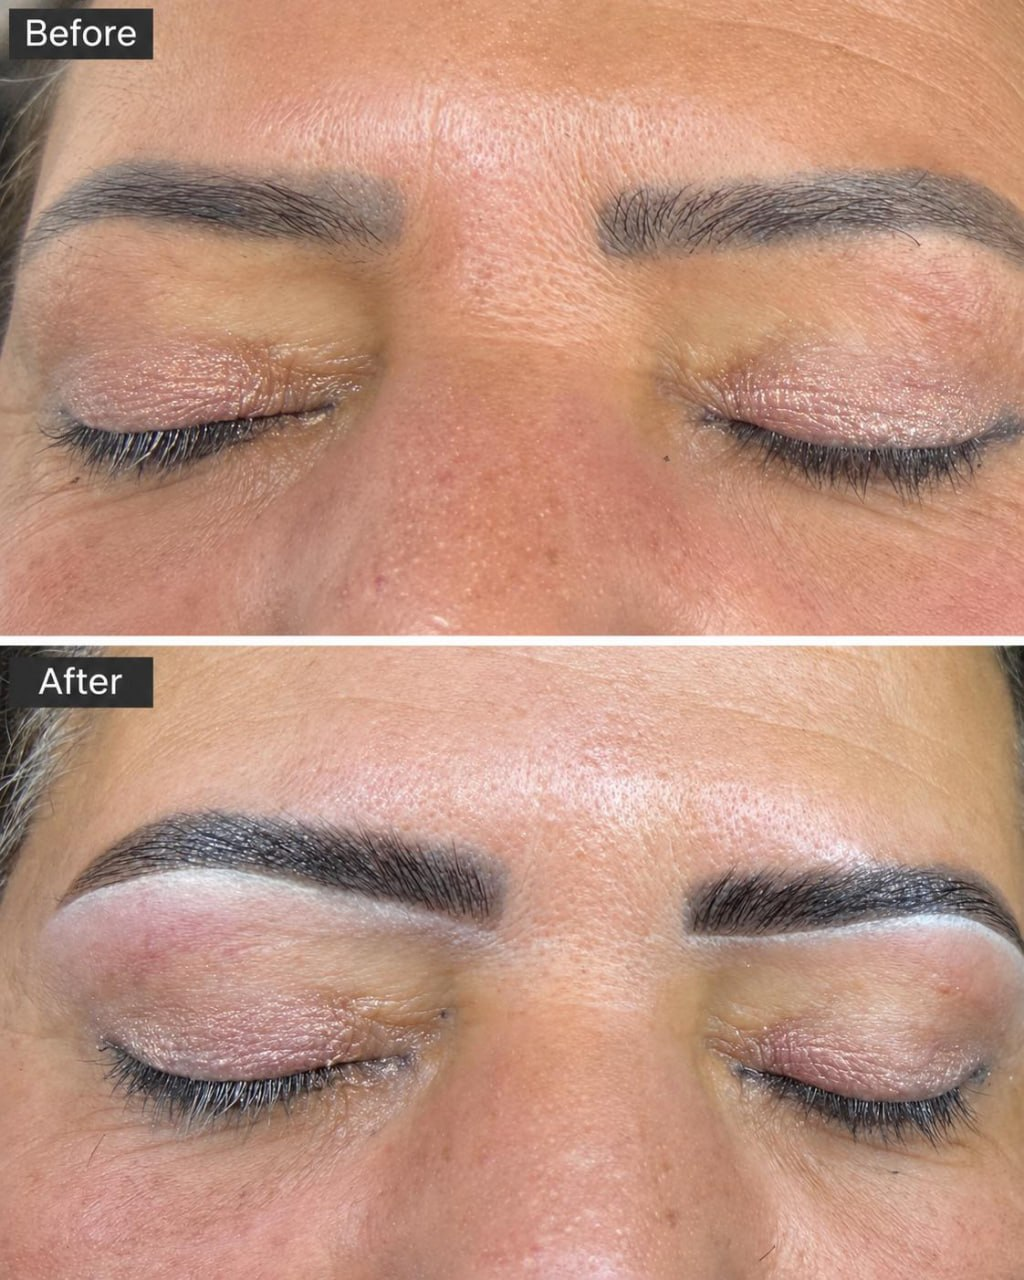
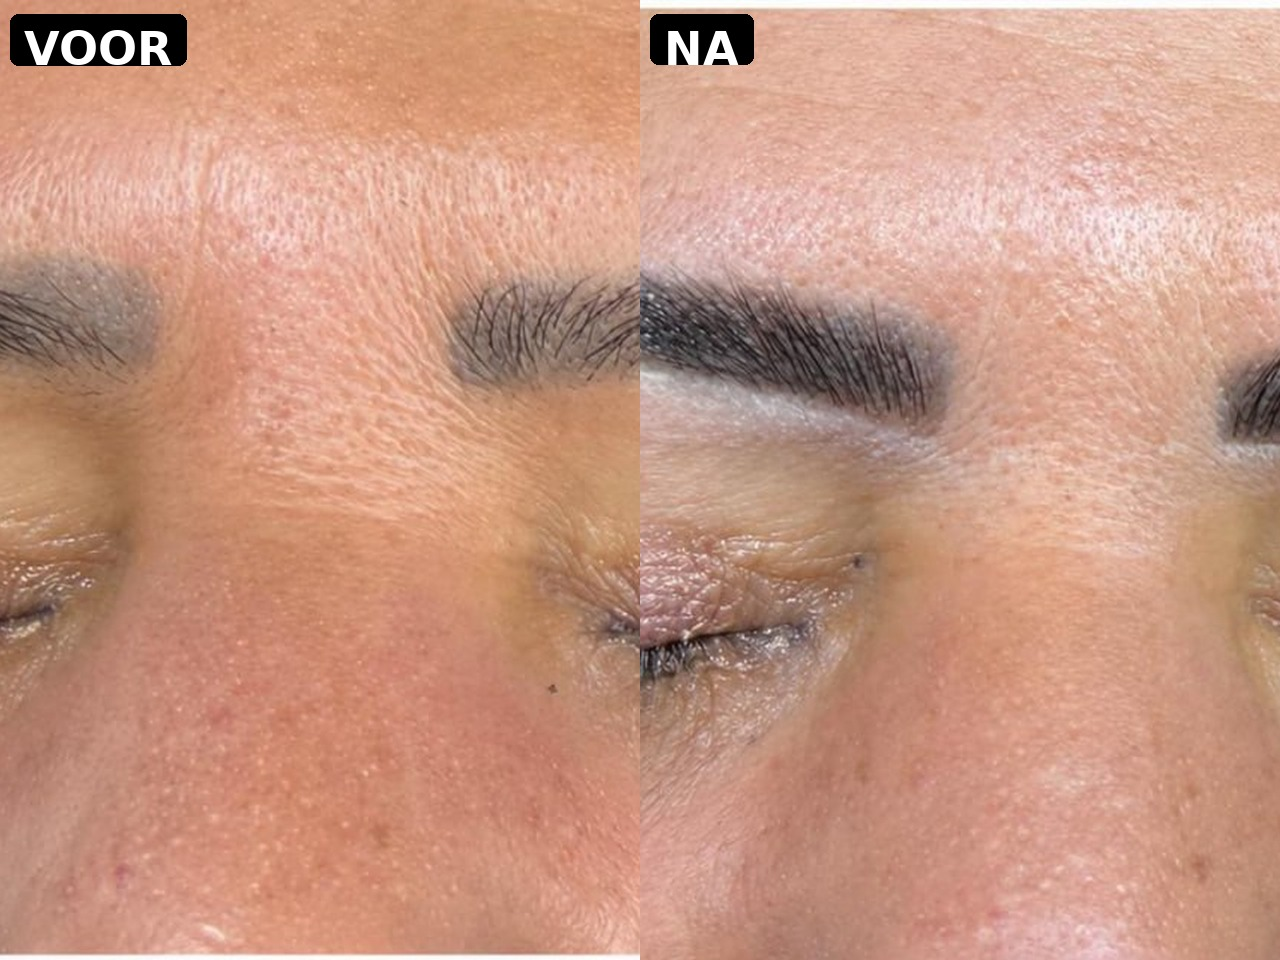
Wenkbrauwen voor/na naast elkaar (liggend) i.p.v. gestapeld; tegels liggend 4:3

diff --git a/index.html b/index.html
@@ -119,7 +119,7 @@ nav{position:sticky;top:0;z-index:100;background:rgba(250,245,238,.92);backdrop-
 .ba-logo img{width:120px;height:120px;border-radius:50%;object-fit:cover;border:6px solid #fff;box-shadow:0 12px 30px rgba(58,44,36,.15)}
 .ba-grid{display:grid;grid-template-columns:repeat(3,1fr);gap:24px}
 .ba-item{background:var(--card);border-radius:18px;overflow:hidden;border:1px solid var(--line);text-align:center}
-.ba-item img{width:100%;aspect-ratio:3/4;object-fit:cover}
+.ba-item img{width:100%;aspect-ratio:4/3;object-fit:cover}
 .ba-item .ba-cap{padding:14px;font-size:.85rem;font-weight:500;color:var(--muted)}
 .ba-pair{background:var(--card);border-radius:18px;overflow:hidden;border:1px solid var(--line)}
 .ba-half{position:relative}
@@ -216,7 +216,7 @@ footer .social-link:hover svg{opacity:1}
   .section-head{margin-bottom:40px}
   .hero{min-height:auto;padding:56px 0 60px}
   .ba-grid{grid-template-columns:1fr 1fr}
-  .ba-item img{aspect-ratio:3/4}
+  .ba-item img{aspect-ratio:4/3}
 }
 </style>
 
@@ -463,8 +463,8 @@ footer .social-link:hover svg{opacity:1}
       <div class="ba-item reveal"><img src="images/blowout-result2.jpg" alt="Blowout resultaat — gladde finish" loading="lazy"><div class="ba-cap">Gladde finish</div></div>
       <div class="ba-item reveal"><img src="images/blowout-result3.jpg" alt="Blowout resultaat — glanzend" loading="lazy"><div class="ba-cap">Glanzend resultaat</div></div>
       <div class="ba-item reveal"><img src="images/blowout-result4.jpg" alt="Blowout resultaat — steil en verzorgd" loading="lazy"><div class="ba-cap">Steil &amp; verzorgd</div></div>
-      <div class="ba-item reveal"><img src="images/brows-voor-na.jpg?v=2" alt="Wenkbrauwen voor en na de behandeling" loading="lazy"><div class="ba-cap">Wenkbrauwen — Voor &amp; Na</div></div>
-      <div class="ba-item reveal"><img src="images/brows-voor-na2.jpg" alt="Wenkbrauwen voor en na de behandeling" loading="lazy"><div class="ba-cap">Wenkbrauwen — Voor &amp; Na</div></div>
+      <div class="ba-item reveal"><img src="images/brows-voor-na.jpg?v=3" alt="Wenkbrauwen voor en na de behandeling" loading="lazy"><div class="ba-cap">Wenkbrauwen — Voor &amp; Na</div></div>
+      <div class="ba-item reveal"><img src="images/brows-voor-na2.jpg?v=2" alt="Wenkbrauwen voor en na de behandeling" loading="lazy"><div class="ba-cap">Wenkbrauwen — Voor &amp; Na</div></div>
     </div>
   </div>
 </section>
